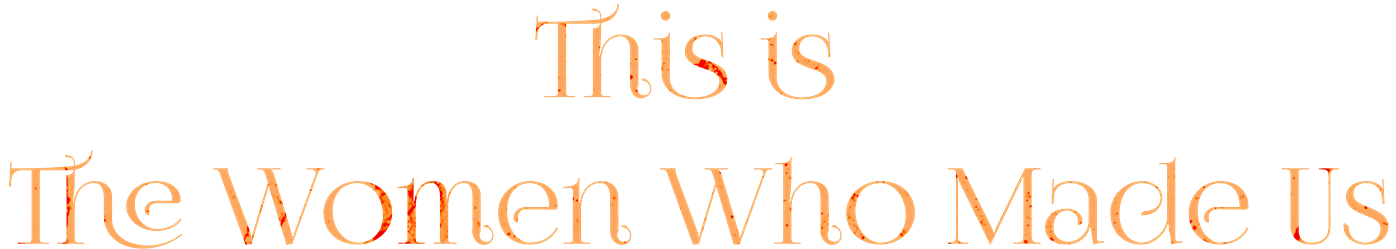
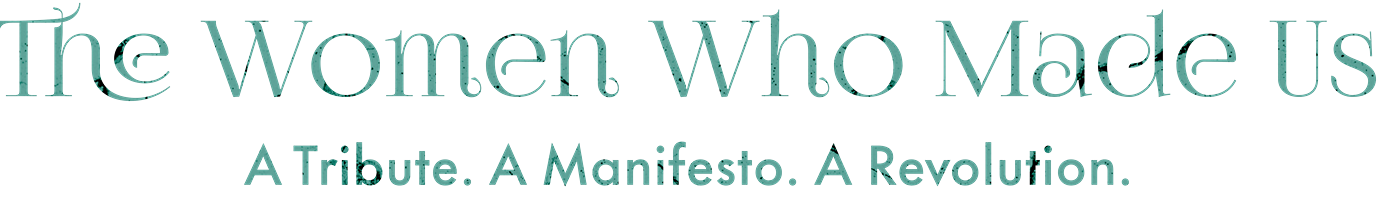
Merge pull request #9 from WilliamSalcedo/WWH-007
Wwh 007

Pull request: Wwh 007

Changed region(s): [[0.0, 0.028, 0.9921, 0.4766], [0.0, 0.6168, 1.0, 1.0], [0.651, 0.0841, 0.682, 0.1121]]

diff --git a/src/components/MusicDrawer.tsx b/src/components/MusicDrawer.tsx
@@ -1,9 +1,26 @@
-import music from '../assets/Music.png'
-
 export default function MusicDrawer() {
   return (
-    <nav className="flex items-center justify-center">
-      <img src={music} alt="music" className="w-80 md:w-150 lg:w-250" />
-    </nav>
+    <div>
+      <h1 className="font-futura mt-4 mb-2 text-center text-white italic md:text-[25px] lg:text-[30px]">
+        The Music
+      </h1>
+      <div className="flex justify-center text-white">
+        <p className="mt-10 w-[80%] text-justify">
+          From the moment you step into the venue, the music begins doing what it does best.
+          Bringing memories back, setting the mood, and connecting generations. HER is a fully
+          curated musical journey that celebrates the women who shaped us, from the early decades of
+          recorded music to the icons of today. <br /> The show travels through time and genres,
+          blending classic standards, theatrical ballads, pop anthems, country legends, dance floor
+          divas, and modern hits. Each song is selected with intention, designed to spark nostalgia,
+          emotion, and that instant recognition of “this made me who I am.” <br /> This is not just
+          a concert. It is a celebration of women in music, across eras, styles, and stories. A
+          soundtrack to our collective memory, and a love letter to the voices that raised us.{' '}
+          <br /> For the legal mini disclaimer area, you can add something like this in tiny footer
+          font: <br /> <b>Legal Notice</b> <br /> This production may include brief audiovisual
+          excerpts and archival materials for commentary, educational, and artistic purposes in
+          accordance with applicable fair use and copyright exception.
+        </p>
+      </div>
+    </div>
   )
 }

diff --git a/src/components/MusicBox.tsx b/src/components/MusicBox.tsx
@@ -1,0 +1,26 @@
+import music from '../assets/Music.png'
+
+export default function MusicBox() {
+  return (
+    <section className="flex w-full flex-col items-center md:flex-row">
+      <div className="flex w-full justify-center p-3 md:w-1/2 md:p-6">
+        <img
+          src={music}
+          alt="Music artwork"
+          className="w-full max-w-[280px] rounded-xl object-cover md:max-w-md"
+        />
+      </div>
+
+      <div className="flex w-full justify-center p-3 md:w-1/2 md:p-6">
+        <div className="w-full max-w-[360px] md:max-w-none">
+          <iframe
+            src="https://open.spotify.com/embed/playlist/78k4OEhvJ1mzGo9fv8yAsI"
+            loading="lazy"
+            allow="clipboard-write; encrypted-media"
+            className="h-[380px] w-full rounded-xl md:h-[352px] "
+          />
+        </div>
+      </div>
+    </section>
+  )
+}

diff --git a/src/components/MissionText.tsx b/src/components/MissionText.tsx
@@ -1,0 +1,24 @@
+import mission from '../assets/TheMission.png'
+import getInvolved from '../assets/GetInvolvedBanner.png'
+export default function MissionText() {
+  return (
+    <div className="flex flex-col items-center justify-center">
+      <div className="m-8 flex justify-center">
+        <img src={mission} alt="" className="w-80 md:w-150 lg:w-140" />
+      </div>
+      <div className="w-[80%]">
+        <p className="font-OldAlmanac text-center text-xs text-[#fda963] sm:text-sm md:text-base lg:text-lg xl:text-xl 2xl:text-2xl">
+          Want to be part of this? Not just as an audience member, but as a foundational part of the
+          story. The Women Who Made Us is being built by a dedicated creative team giving their
+          time, talent, and energy to a vision they believe in. We know the value of their work, and
+          this mission is about honoring that talent while we bring the production to life. If you
+          want to be part of our founding story, you can join as a <b>Supporter or Producer</b>{' '}
+          through our limited-edition merch tiers and support levels
+        </p>
+      </div>
+      <div className="m-8 flex justify-center">
+        <img src={getInvolved} alt="" className="" />
+      </div>
+    </div>
+  )
+}

diff --git a/src/components/Text.tsx b/src/components/Text.tsx
@@ -1,31 +1,18 @@
-import { useTranslation } from 'react-i18next'
-import subTitle from '../assets/LandingSubTitle1.png'
+import subTitle from '../assets/LandingSubTitle.png'
 
 export default function Text() {
-  const { t } = useTranslation()
-
   return (
     <div className="flex flex-col items-center justify-center">
       <div className="w-[80%]">
         <p className="font-OldAlmanac text-center text-xs text-[#fda963] sm:text-sm md:text-base lg:text-lg xl:text-xl 2xl:text-2xl">
-          A live music and storytelling platform built around the songs, voices, and stories that
-          shaped a generation. <br /> It brings together live performances, narrative moments, and visual
-          storytelling to create immersive shows that feel like a concert and a cultural experience
-          at the same time. Each production explores different themes, eras, and icons, connecting
-          nostalgia with a modern live audience experience. <br /> This space is designed to expand into
-          multiple productions, collaborations, and live formats, with each chapter adding a new
-          layer to the story.
+          Born from a desire to reclaim the stage, <i>The Women Who Made Us</i> is more than a
+          tribute show. It's a living lineage of artists, icons and dreamers who shaped our world.
+          We don't just perform the music; we honor the spirit of the women who made us who we are.
         </p>
       </div>
 
       <div className="m-8 flex justify-center">
-        <img src={subTitle} alt="" className="w-60 md:w-130 lg:w-140" />
-      </div>
-
-      <div className="m-4 flex justify-center">
-        <p className="font-futura m-4 text-center text-xs text-[#fda963] sm:text-sm md:text-base lg:text-lg xl:text-xl 2xl:text-2xl">
-          {t('text.ctaDescription')}
-        </p>
+        <img src={subTitle} alt="" className="w-80 md:w-150 lg:w-140" />
       </div>
     </div>
   )

diff --git a/src/App.tsx b/src/App.tsx
@@ -6,17 +6,20 @@ import NotFound from './pages/NotFound/NotFound'
 import PrivacyModal from './components/PrivacyModal'
 import TermsModal from './components/TermsModal'
 import MusicDrawer from './components/MusicDrawer'
+import MainLayout from './components/layout/MainLayout'
 
 function App() {
   return (
     <>
       <Routes>
-        <Route path="/" element={<Home />} />
-        <Route path="/about" element={<About />} />
-        <Route path="*" element={<NotFound />} />
-        <Route path="/PrivacyModal" element={<PrivacyModal />} />
-        <Route path="/TermsModal" element={<TermsModal />} />
-        <Route path="/MusicDrawer" element={<MusicDrawer />} />
+        <Route element={<MainLayout />}>
+          <Route path="/" element={<Home />} />
+          <Route path="/about" element={<About />} />
+          <Route path="*" element={<NotFound />} />
+          <Route path="/PrivacyModal" element={<PrivacyModal />} />
+          <Route path="/TermsModal" element={<TermsModal />} />
+          <Route path="/MusicDrawer" element={<MusicDrawer />} />
+        </Route> 
       </Routes>
     </>
   )

diff --git a/src/components/layout/MainLayout.tsx b/src/components/layout/MainLayout.tsx
@@ -1,0 +1,14 @@
+
+import { Outlet } from 'react-router-dom'
+import Navbar from '../Navbar'
+
+export default function MainLayout() {
+  return (
+    <>
+      <Navbar />
+      <main >
+        <Outlet />
+      </main>
+    </>
+  )
+}

diff --git a/src/components/Navbar.tsx b/src/components/Navbar.tsx
@@ -1,19 +1,21 @@
 import { useState } from 'react'
 import logo from '../assets/Heart.png'
+import { Link } from 'react-router-dom'
 
 export default function Navbar() {
   const [open, setOpen] = useState(false)
   const [aboutOpen, setAboutOpen] = useState(false)
 
   return (
-    <nav className="relative w-full md:z-50">
+    <nav className="relative mt-8 w-full md:z-50">
       <div className="flex items-center justify-between px-2">
         <ul className="hidden w-[90%] items-center justify-around gap-10 px-2 text-xs tracking-widest text-white/80 uppercase md:flex">
-          <span>
+          <Link to="/">
             <img src={logo} alt="Heart" className="w-15 md:w-25 lg:w-30" />
-          </span>
+          </Link>
+
           <li>
-            <a href="#" className="transition hover:text-white">
+            <a href="/" className="transition hover:text-white">
               Home
             </a>
           </li>

diff --git a/src/components/Form.tsx b/src/components/Form.tsx
@@ -87,7 +87,12 @@ export default function Form() {
   }
 
   return (
-    <div className="flex justify-center">
+    <div className="flex justify-center flex-col items-center">
+      <div className="m-4 flex justify-center">
+        <p className="font-futura m-4 text-center text-xs text-[#fda963] sm:text-sm md:text-base lg:text-lg xl:text-xl 2xl:text-2xl">
+          {t('text.ctaDescription')}
+        </p>
+      </div>
       <form
         onSubmit={handleSubmit(onSubmit)}
         className="m-4 flex w-full max-w-3xl flex-col items-center md:flex-col md:gap-6"

diff --git a/src/components/layout/Main.tsx b/src/components/layout/Main.tsx
@@ -1,5 +1,6 @@
 import Form from '../Form'
-import Navbar from '../Navbar'
+import MissionText from '../MissionText'
+import MusicBox from '../MusicBox'
 import SocialMedia from '../SocialMedia'
 import Text from '../Text'
 import Title from '../Title'
@@ -9,10 +10,11 @@ import Footer from './Footer'
 function Main() {
   return (
     <div>
-      <Navbar />
       <VideoPlay />
       <Title />
       <Text />
+      <MusicBox />
+      <MissionText />
       <Form />
       <SocialMedia />
       <Footer />

diff --git a/src/components/Title.tsx b/src/components/Title.tsx
@@ -1,4 +1,4 @@
-import title from '../assets/LandingTitle1.png'
+import title from '../assets/LandingTitle.png'
 
 export default function Title() {
   return (

diff --git a/src/components/VideoPlay.tsx b/src/components/VideoPlay.tsx
@@ -1,5 +1,5 @@
 export default function VideoHero() {
-  const videoSrc = '/video/websiteVideo1.mp4'
+  const videoSrc = '/video/BannerVideo.mp4'
 
   return (
     <div className="flex justify-center py-10">